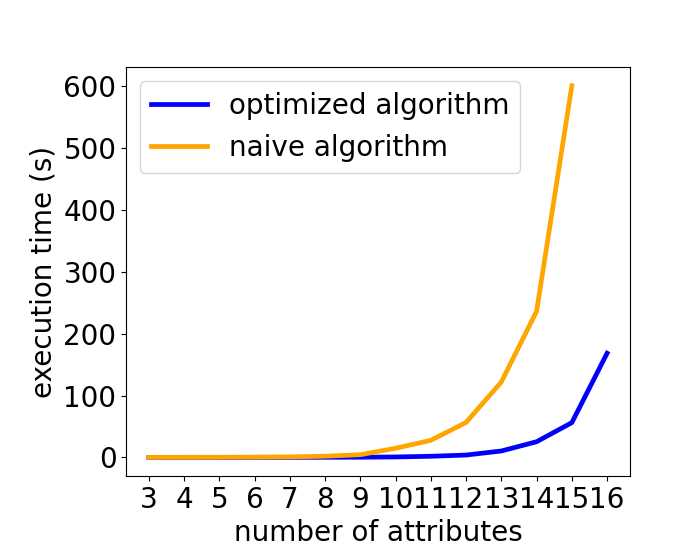
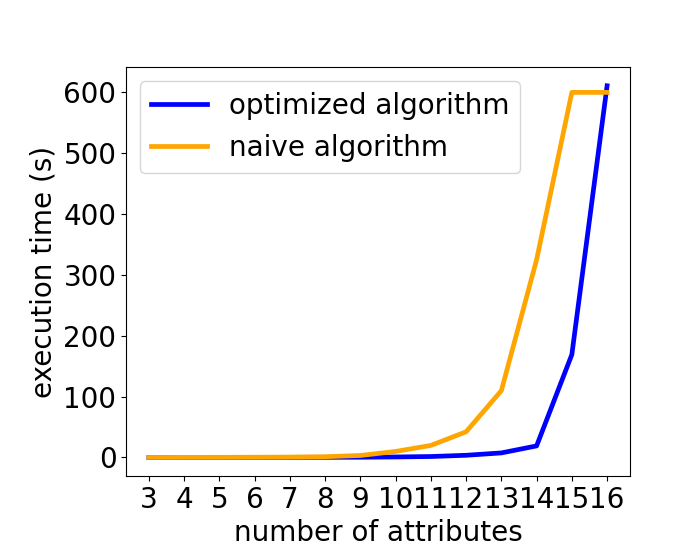
ranking, compas, num att

diff --git a/OutputData/Ranking2/CompasData/figure_num_att_naive_to_15.py b/OutputData/Ranking2/CompasData/figure_num_att_naive_to_15.py
@@ -74,15 +74,15 @@ print(num_patterns2)
 
 
 plt.plot(Thc_list, execution_time1, label="optimized algorithm", color='blue', linewidth = 3.4)
-plt.plot(Thc_list[:13], execution_time2[:13], label="naive algorithm", color='orange', linewidth = 3.4)
+plt.plot(Thc_list[:12], execution_time2[:12], label="naive algorithm", color='orange', linewidth = 3.4)
 
 # plt.yscale('log')
 plt.xlabel('number of attributes')
 plt.ylabel('execution time (s)')
-plt.xticks(Thc_list)
+plt.xticks([3, 5, 7, 9, 10, 12, 14, 16])
 plt.subplots_adjust(bottom=0.15, left=0.18)
 plt.legend()
-plt.savefig("num_att_time_naive_15.png")
+plt.savefig("num_att_time_naive_14.png")
 plt.show()
 
 

diff --git a/Coding/Experiments/Ranking/CompasData/num_attributes_0_20210701.py b/Coding/Experiments/Ranking/CompasData/num_attributes_0_20210701.py
@@ -16,8 +16,8 @@ threshold of minority group accuracy: overall acc - 20
 import pandas as pd
 from Algorithms import pattern_count
 from Algorithms import WholeProcess_0_20201211 as wholeprocess
-from Algorithms import NewAlgRanking_5_20210624 as newalg
-from Algorithms import NaiveAlgRanking_1_20210611 as naivealg
+from Algorithms import NewAlgRanking_8_20210702 as newalg
+from Algorithms import NaiveAlgRanking_2_20210701 as naivealg
 from Algorithms import Predict_0_20210127 as predict
 import matplotlib.pyplot as plt
 from matplotlib.ticker import FuncFormatter
